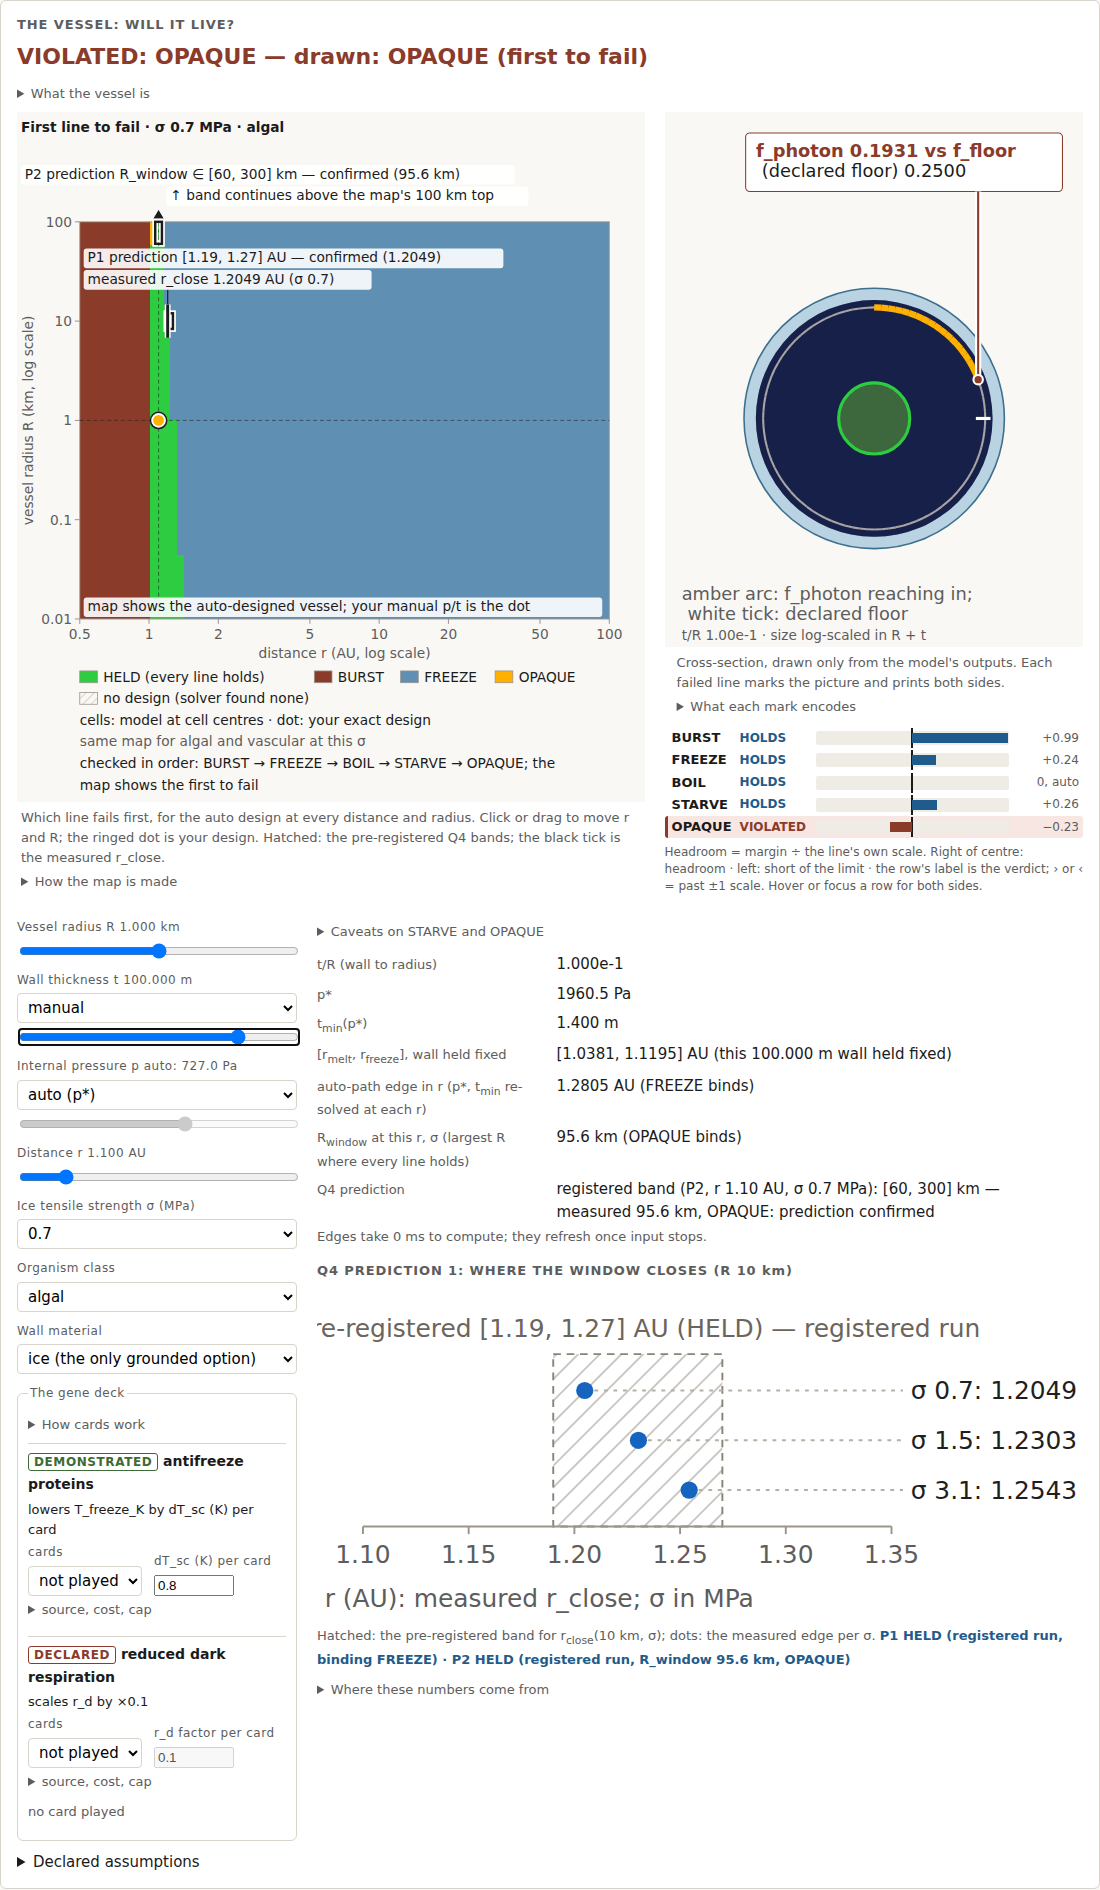
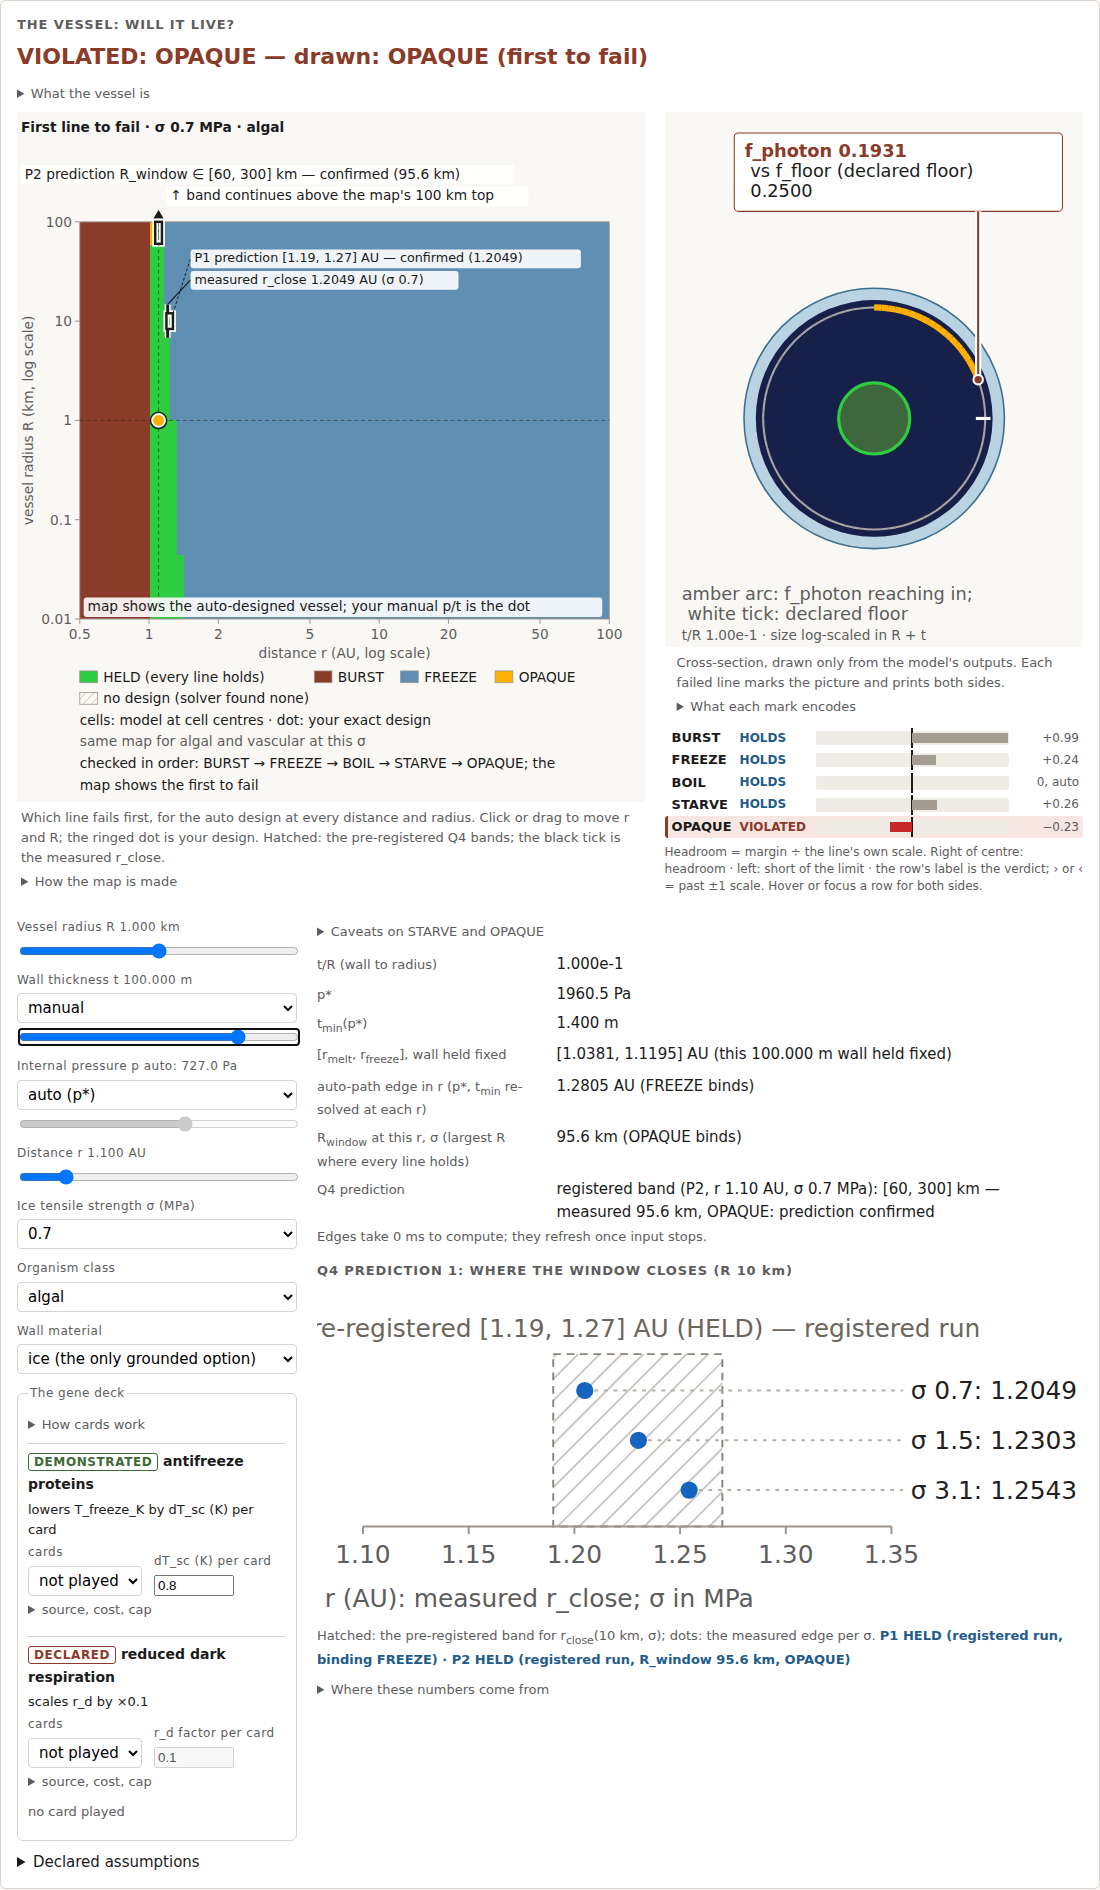
critic r3: P1 box and r_close tick over the dot are hollow (ink outline, tick dashed around the box; halo and hatch stay under the dot); P1 and r_close labels right of the band at 13 px with leaders, off the HELD cells; label plates never run past the figure; headroom fills never a legend colour (ne

Changed region(s): [[0.0618, 0.1249, 0.5255, 0.1561], [0.6491, 0.0624, 0.9273, 0.1249], [0.8345, 0.3746, 0.9273, 0.4058]]

diff --git a/web/mapview.js b/web/mapview.js
@@ -34,6 +34,7 @@
     PW = 540,
     PH = 405, // 80 × 60 cells at 6.75 px square
     FS = 14, // >= 12 px on screen at the page's map width (smoke asserts it)
+    LABEL_FS = 13, // the P1 / r_close labels: they sit right of the band, where the width is short
     KEY_ROW = 22,
     EDGE_TOL = 5e-4, // decades: r is read rounded to 0.001 AU, so 0.500 AU is 7e-5 inside the grid
     INK = "#1b1b1b",
@@ -205,9 +206,12 @@
   }
   // a label on a white plate, so it reads over any cell colour
   function haloText(parent, attrs, text) {
-    var w = textW(text) + 8, mid = attrs["text-anchor"] === "middle";
+    var fs = attrs["font-size"] || FS, mid = attrs["text-anchor"] === "middle";
+    var w = (textW(text) * fs) / FS + 8;
     var x0 = mid ? attrs.x - w / 2 : attrs.x - 4;
-    el("rect", { x: x0, y: attrs.y - FS, width: w, height: FS + 6, rx: 3, fill: "#ffffff", "fill-opacity": 0.9 },
+    // textW over-estimates (0.6 em against ~0.5 em drawn): a plate never runs past the figure
+    if (!mid) w = Math.min(w, W - 2 - x0);
+    el("rect", { x: x0, y: attrs.y - fs, width: w, height: fs + 6, rx: 3, fill: "#ffffff", "fill-opacity": 0.9 },
       parent);
     return el("text", Object.assign({ "font-size": FS, fill: INK }, attrs), parent, text);
   }
@@ -226,20 +230,30 @@
     var x0 = X(lg(p1.band_au[0])), x1 = X(lg(p1.band_au[1]));
     var yc = Y(lg(p1.R_km * 1000));
     var h = Math.max(PH / (NRR - 1), 16); // the row, drawn at least 16 tall so the mark reads as a box
-    outline(top, "map-p1", { x: x0, y: yc - h / 2, width: x1 - x0, height: h });
+    // the white under-stroke and hatch sit under the dot; over it only the hollow ink outline
+    var box = { x: x0, y: yc - h / 2, width: x1 - x0, height: h };
+    el("rect", Object.assign({ id: "map-p1-halo", fill: "none", stroke: "#ffffff", "stroke-width": 6 }, box), g);
+    el("rect", Object.assign({ fill: "url(#map-hatch-band)" }, box), g);
+    el("rect", Object.assign({ id: "map-p1", fill: "none", stroke: INK, "stroke-width": 2.5 }, box), top);
     // the measured edge for this slice's sigma (the committed Q4 run), a tick across the row
     var k = -1;
     p1.sigma_MPa.forEach(function (s, n) { if (Math.abs(s - sigma_MPa) < 1e-9) k = n; });
     if (k < 0) throw new Error("mapview: no measured r_close for sigma " + sigma_MPa);
     var xr = X(lg(p1.r_close_au[k]));
-    var ly = yc - h / 2 - 30, lx = L + 8; // label plates: above the row, from the frame's left edge
-    el("line", { x1: xr, y1: yc - h / 2 - 9, x2: xr, y2: yc + h / 2 + 9, stroke: "#ffffff", "stroke-width": 6 }, top);
+    // label plates: above the row, right of the band (off the HELD cells P1 is about), with leaders
+    var ly = yc - h / 2 - 30, lx = x1 + 22;
+    // the tick: 9 above the box, a gap the box's height (the dot shows through), 9 below
+    var dash = "9 " + h + " 9";
+    el("line", { x1: xr, y1: yc - h / 2 - 9, x2: xr, y2: yc + h / 2 + 9, stroke: "#ffffff", "stroke-width": 6,
+      "stroke-dasharray": dash }, g);
     el("line", { id: "map-rclose", x1: xr, y1: yc - h / 2 - 9, x2: xr, y2: yc + h / 2 + 9, stroke: INK,
-      "stroke-width": 3 }, top);
-    el("line", { x1: xr, y1: yc - h / 2 - 9, x2: xr, y2: ly + 6, stroke: INK, "stroke-width": 1.2 }, g);
-    haloText(labels, { id: "map-rclose-label", x: lx, y: ly },
+      "stroke-width": 3, "stroke-dasharray": dash }, top);
+    el("line", { x1: xr, y1: yc - h / 2 - 9, x2: lx - 4, y2: ly - 4, stroke: INK, "stroke-width": 1.2 }, g);
+    el("line", { x1: x1, y1: yc - h / 2, x2: lx - 4, y2: ly - FS - 12, stroke: INK, "stroke-width": 1,
+      "stroke-dasharray": "3 2" }, g);
+    haloText(labels, { id: "map-rclose-label", x: lx, y: ly, "font-size": LABEL_FS },
       "measured r_close " + p1.r_close_au[k].toFixed(4) + " AU (σ " + sigma_MPa + ")" + dag);
-    haloText(labels, { id: "map-p1-label", x: lx, y: ly - FS - 8 },
+    haloText(labels, { id: "map-p1-label", x: lx, y: ly - FS - 8, "font-size": LABEL_FS },
       "P1 prediction [" + p1.band_au[0] + ", " + p1.band_au[1] + "] AU — " + outcome(p1.verdict) +
         " (" + p1.r_close_au[k].toFixed(4) + ")" + dag);
     var p2 = bands.P2;

diff --git a/web/index.html b/web/index.html
@@ -104,8 +104,9 @@
       .hr-status { font-size: 12px; }
       .hr-track { position: relative; height: 14px; background: #efece6; border-radius: 2px; }
       .hr-zero { position: absolute; left: 50%; top: -3px; bottom: -3px; width: 2px; margin-left: -1px; background: var(--ink); }
-      .hr-fill { position: absolute; top: 2px; bottom: 2px; background: var(--curve); }
-      .hr-row[data-violated="true"] .hr-fill { background: var(--warn); }
+      /* bar fills are never a map legend colour: neutral while the line holds, one red when violated */
+      .hr-fill { position: absolute; top: 2px; bottom: 2px; background: #a39d92; }
+      .hr-row[data-violated="true"] .hr-fill { background: #c62828; }
       /* the clamp cap: light on dark, over the bar's end, so it reads on either fill colour */
       .hr-cap { display: none; position: absolute; top: -2px; bottom: -2px; font-size: 13px; font-weight: 700;
         line-height: 18px; padding: 0 4px; border-radius: 3px; color: #ffffff; background: var(--ink); }

diff --git a/web/picture.js b/web/picture.js
@@ -158,6 +158,11 @@
   // space, so the concatenated textContent is exactly the input (the panel's string).
   function wrap(text, n) {
     n = n || WRAP;
+    // a comparison that does not fit breaks before " vs ", so each side keeps its value
+    if (text.length > n && text.indexOf(" vs ") > 0) {
+      var k = text.indexOf(" vs ");
+      return wrap(text.slice(0, k), n).concat(wrap(text.slice(k), n));
+    }
     var out = [],
       cur = "";
     text.split(/(?= )/).forEach(function (w) {

diff --git a/tests/test_site_map.py b/tests/test_site_map.py
@@ -548,3 +548,31 @@ def test_crosshair_runs_under_the_band_labels_and_the_dot_over_them(page):
         assert len(cross) == 2, (name, len(cross))  # positive control: the crosshair is drawn
         lab = min(order.index("map-p1-label"), order.index("map-rclose-label"))
         assert max(cross) < lab < order.index("map-dot"), (name, cross, lab, order.index("map-dot"))
+
+
+# (Task 5 critic r3) -----------------------------------------------------------------------------
+def test_p1_mark_over_the_dot_is_hollow(page):
+    for name in ("r1.21", "defaults"):
+        tree = page[name]["map"]
+        order = [n["attrs"].get("id") for n in walk(tree)]
+        box, tick = need(tree, "map-p1")["attrs"], need(tree, "map-rclose")["attrs"]
+        # over the dot: stroke only, nothing filled across the dot
+        assert box.get("fill") == "none", box
+        # the white under-stroke stays under the dot, so it cannot cover the dot's fill
+        assert order.index("map-p1-halo") < order.index("map-dot") < order.index("map-p1"), name
+        # the tick is drawn outside the box only: a dash, a gap the box's height, a dash
+        dash = [float(v) for v in tick.get("stroke-dasharray", "").replace(",", " ").split()]
+        assert len(dash) == 3 and dash[1] >= float(box["height"]) - 1e-6, (tick, box["height"])
+
+
+def test_p1_labels_sit_off_the_held_band(page):
+    for name in ("defaults", "s15"):
+        tree = page[name]["map"]
+        held = [c for c in cells(tree) if c["attrs"]["data-class"] == "HELD"]
+        assert held, name  # positive control: the band is there
+        for lid in ("map-p1-label", "map-rclose-label"):
+            p = plate_of(tree, lid)
+            hit = [(c["attrs"]["data-i"], c["attrs"]["data-j"]) for c in held if overlap(p, (
+                float(c["attrs"]["x"]), float(c["attrs"]["y"]),
+                float(c["attrs"]["x"]) + float(c["attrs"]["width"]), float(c["attrs"]["y"]) + float(c["attrs"]["height"])))]
+            assert not hit, (name, lid, p, hit[:5])

diff --git a/tools/smoke_page.py b/tools/smoke_page.py
@@ -1084,6 +1084,21 @@ def exercise_headroom(page, label: str, shoot: bool) -> None:
     )
     check(g["w"] > 1 and g["right"] is not None and g["right"] <= g["zero"] + 1,
           f"[{label}] headroom FREEZE bar drawn left of the zero line: {g}")
+    # (Task 5 critic r3) a bar's fill is never a map legend colour: one neutral fill for holding
+    # bars, one violated red for violated bars (checked here with both kinds on the page)
+    fills = page.evaluate(
+        """() => { const hex = (h) => { const n = parseInt(h.slice(1), 16);
+                     return 'rgb(' + [(n >> 16) & 255, (n >> 8) & 255, n & 255].join(', ') + ')'; };
+                  const pal = Object.entries(window.DysonPicture.PALETTE).map(([k, v]) => [k, hex(v)]);
+                  return { pal: pal, rows: ['BURST', 'FREEZE', 'BOIL', 'STARVE', 'OPAQUE'].map(n => ({ n: n,
+                    v: document.getElementById('hr-' + n).getAttribute('data-violated'),
+                    c: getComputedStyle(document.getElementById('hr-' + n + '-fill')).backgroundColor })) }; }"""
+    )
+    legend = {c: k for k, c in fills["pal"]}
+    clash = [(r["n"], legend[r["c"]]) for r in fills["rows"] if r["c"] in legend]
+    kinds = {v: {r["c"] for r in fills["rows"] if r["v"] == v} for v in ("true", "false")}
+    check(not clash and len(kinds["true"]) == 1 and len(kinds["false"]) == 1 and kinds["true"] != kinds["false"],
+          f"[{label}] headroom fills: no legend colour, one holding and one violated fill: clash {clash}, {kinds}")
     if shoot:
         page.locator("#vessel").evaluate("e => e.scrollIntoView({block: 'start'})")
         page.screenshot(path=str(SHOT_DIR / "task-4-shot-freeze.png"))

diff --git a/tests/test_site_picture.py b/tests/test_site_picture.py
@@ -266,3 +266,12 @@ def test_clamp_note_prints_t_over_r_once_and_quietly(page):
         assert clamp["attrs"].get("font-size") == "13", name
     # positive control: unclamped, the footer still prints t/R
     assert "t/R " in text_of(page["t50"]["pic"])
+
+
+def test_callout_breaks_before_vs(page):
+    # (Task 5 critic r3) "T_int 272.700 K" / "vs T_freeze 273.150 K", never "T_freeze" / its value
+    ov = by_id(page["freeze"]["pic"], "pic-overlays")
+    assert ov is not None
+    lines = [t["text"] for n in walk(ov) if n["tag"] == "text" for t in n["children"] if t["tag"] == "tspan"]
+    i = [k for k, t in enumerate(lines) if t.startswith("T_int")]
+    assert i and lines[i[0] + 1].lstrip().startswith("vs T_freeze") and "273.150 K" in lines[i[0] + 1], lines
